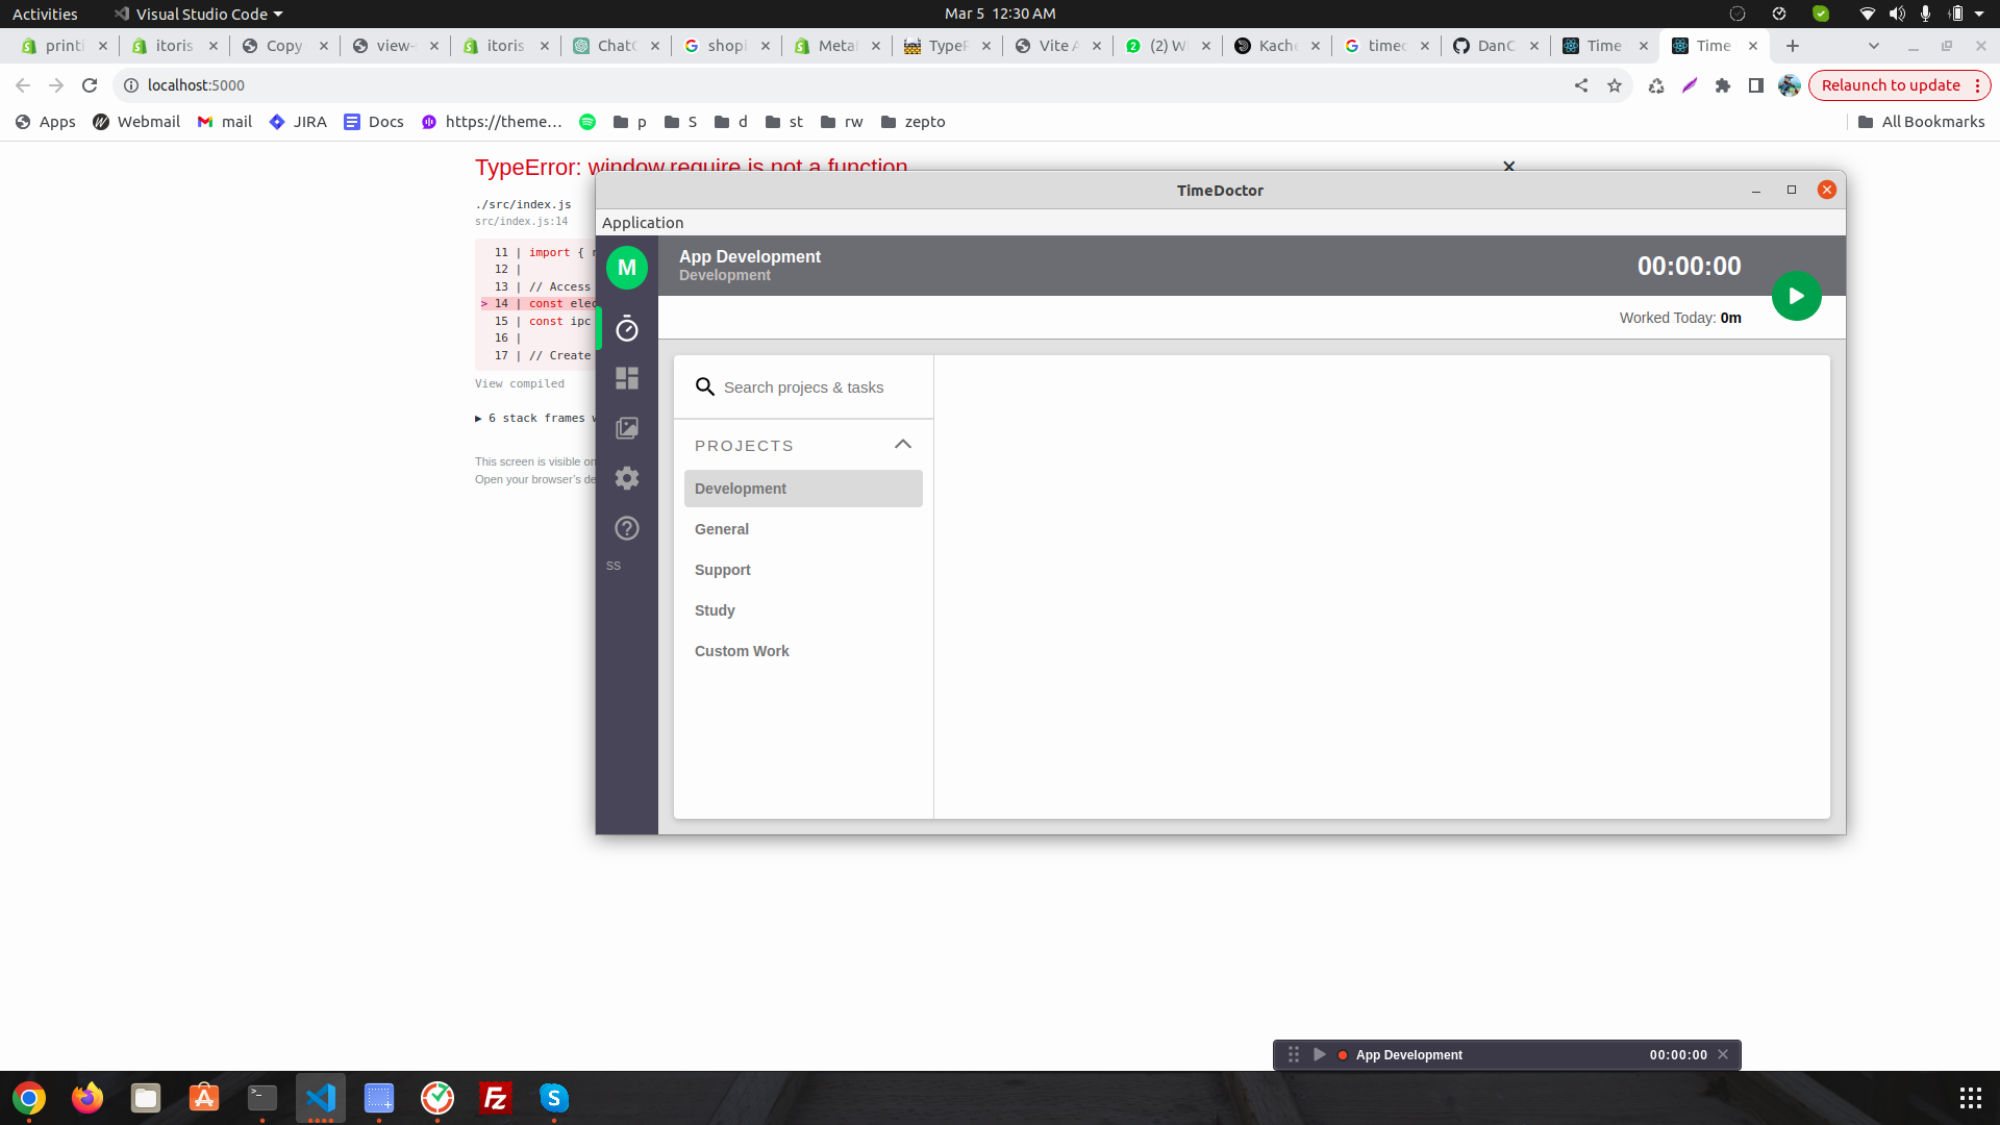
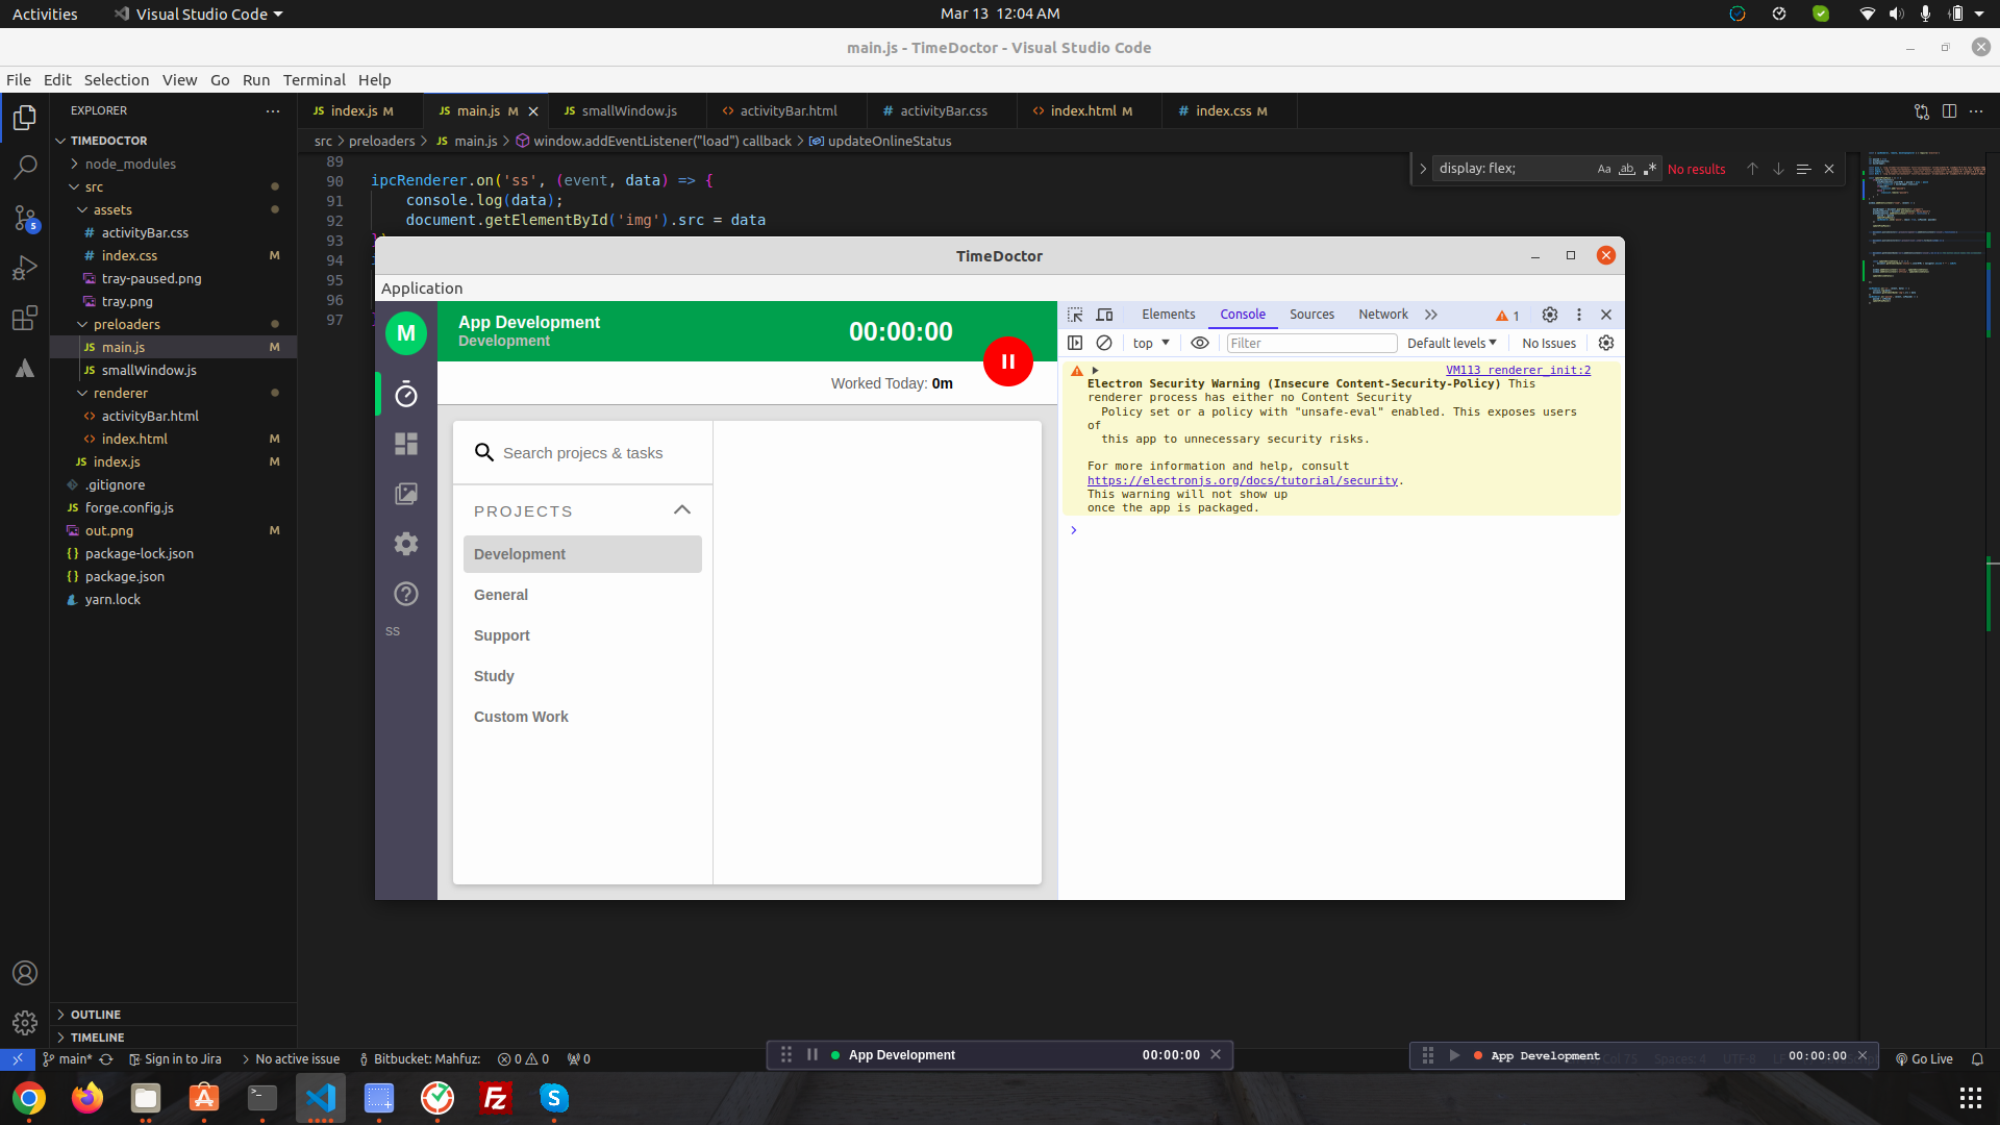
keyboard shortcut + online/offline status added

diff --git a/src/preloaders/main.js b/src/preloaders/main.js
@@ -7,14 +7,18 @@ var mainWrapper;
 
 const play = `<svg stroke="currentColor" fill="currentColor" stroke-width="0" viewBox="0 0 512 512" height="200px" width="200px" xmlns="http://www.w3.org/2000/svg"><path d="M133 440a35.37 35.37 0 0 1-17.5-4.67c-12-6.8-19.46-20-19.46-34.33V111c0-14.37 7.46-27.53 19.46-34.33a35.13 35.13 0 0 1 35.77.45l247.85 148.36a36 36 0 0 1 0 61l-247.89 148.4A35.5 35.5 0 0 1 133 440z"></path></svg>`
 const pause = `<svg stroke="currentColor" fill="currentColor" stroke-width="0" viewBox="0 0 512 512" height="200px" width="200px" xmlns="http://www.w3.org/2000/svg"><path d="M199.9 416h-63.8c-4.5 0-8.1-3.6-8.1-8V104c0-4.4 3.6-8 8.1-8h63.8c4.5 0 8.1 3.6 8.1 8v304c0 4.4-3.6 8-8.1 8zM375.9 416h-63.8c-4.5 0-8.1-3.6-8.1-8V104c0-4.4 3.6-8 8.1-8h63.8c4.5 0 8.1 3.6 8.1 8v304c0 4.4-3.6 8-8.1 8z"></path></svg>`
+const noWiFi = `<svg stroke="currentColor" class="no" fill="currentColor" stroke-width="0" viewBox="0 0 24 24" height="200px" width="200px" xmlns="http://www.w3.org/2000/svg"><path fill="none" d="M0 0h24v24H0V0z"></path><path d="m21 11 2-2c-3.73-3.73-8.87-5.15-13.7-4.31l2.58 2.58c3.3-.02 6.61 1.22 9.12 3.73zm-2 2a9.895 9.895 0 0 0-3.72-2.33l3.02 3.02.7-.69zM9 17l3 3 3-3a4.237 4.237 0 0 0-6 0zM3.41 1.64 2 3.05 5.05 6.1C3.59 6.83 2.22 7.79 1 9l2 2c1.23-1.23 2.65-2.16 4.17-2.78l2.24 2.24A9.823 9.823 0 0 0 5 13l2 2a6.999 6.999 0 0 1 4.89-2.06l7.08 7.08 1.41-1.41L3.41 1.64z"></path></svg>`
+const WiFi = `<svg stroke="currentColor" fill="currentColor" stroke-width="0" viewBox="0 0 24 24" height="200px" width="200px" xmlns="http://www.w3.org/2000/svg"><path fill="none" d="M0 0h24v24H0V0zm0 0h24v24H0V0z"></path><path d="m1 9 2 2c4.97-4.97 13.03-4.97 18 0l2-2C16.93 2.93 7.08 2.93 1 9zm8 8 3 3 3-3a4.237 4.237 0 0 0-6 0zm-4-4 2 2a7.074 7.074 0 0 1 10 0l2-2C15.14 9.14 8.87 9.14 5 13z"></path></svg>`
 
 const updatePlayPause = () => {
-    playPausebutton.innerHTML = paused ? play : pause
-    const classList = mainWrapper.classList
-    if(paused){
-        classList.add("paused")
-    }else {
-        classList.remove("paused")
+    if(playPausebutton){
+        playPausebutton.innerHTML = paused ? play : pause
+        const classList = mainWrapper.classList
+        if(paused){
+            classList.add("paused")
+        }else {
+            classList.remove("paused")
+        }
     }
 }
 
@@ -68,6 +72,16 @@ window.addEventListener("load", (event) => {
         //         document.getElementById('img').src = sources[0].thumbnail.toDataURL() // The image to display the screenshot
         //     })
     })
+
+
+    const updateOnlineStatus = () => {
+        document.getElementById('status').innerHTML = navigator.onLine ? "" : noWiFi
+    }
+    
+    window.addEventListener('online', updateOnlineStatus)
+    window.addEventListener('offline', updateOnlineStatus)
+    
+    updateOnlineStatus()
 
 
 });

diff --git a/src/renderer/index.html b/src/renderer/index.html
@@ -79,8 +79,11 @@
                 <div class="bottom">
                     <div class="contents">
                         <div></div>
-                        <div class="gray-text">
-                            Worked Today: <b>0m</b>
+                        <div class="worked-today">
+                            <div id="status"></div>
+                            <div class="gray-text">
+                                Worked Today: <b>0m</b>
+                            </div>
                         </div>
                     </div>
                 </div>

diff --git a/src/index.js b/src/index.js
@@ -156,6 +156,12 @@ const pauseResume = (isPaused, fromIPC = false) => {
     }
 }
 
+const registerKeyPress = () => {
+    globalShortcut.register('Alt+CommandOrControl+I', () => {
+        console.log('Electron loves global shortcuts!')
+    })
+}
+
 
 let idleTime = 0;
 app.on('ready', function() {
@@ -163,7 +169,7 @@ app.on('ready', function() {
     createActiviyBarWindow()
     createTray()
     pauseResume()
-
+    registerKeyPress()
 });
 
 

diff --git a/src/assets/index.css b/src/assets/index.css
@@ -333,3 +333,17 @@ svg {
     border-top: 2px solid #dedede;
     padding-top: 10px;
 }
+
+.worked-today {
+    display: flex;
+    align-items: center;
+    gap: 10px;
+}
+.worked-today svg {
+    width: 18px;
+    height: 18px;
+    color: green;
+}
+.worked-today svg.no{
+    color: gray;
+}
